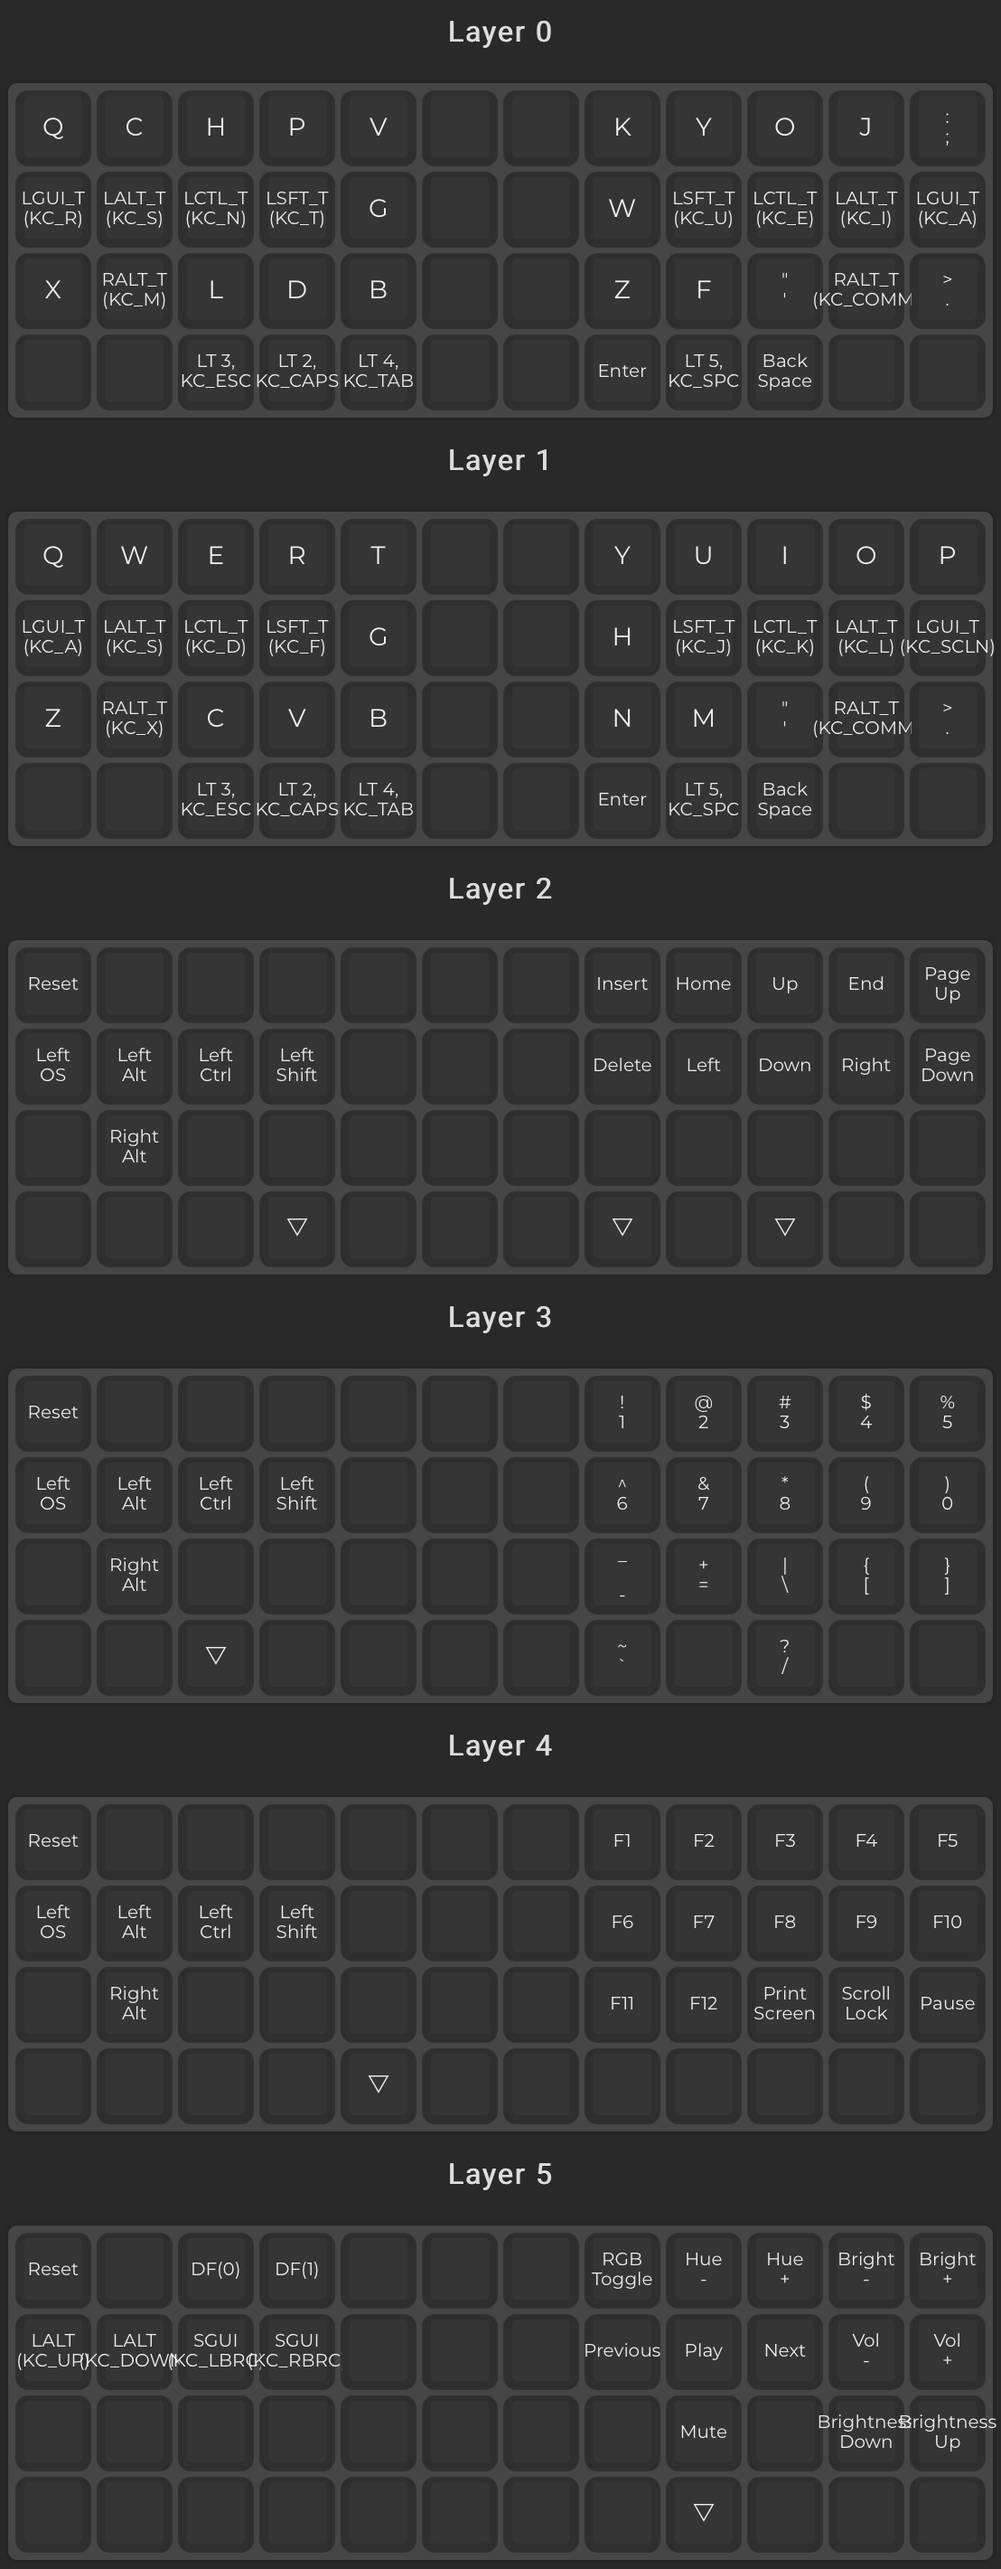
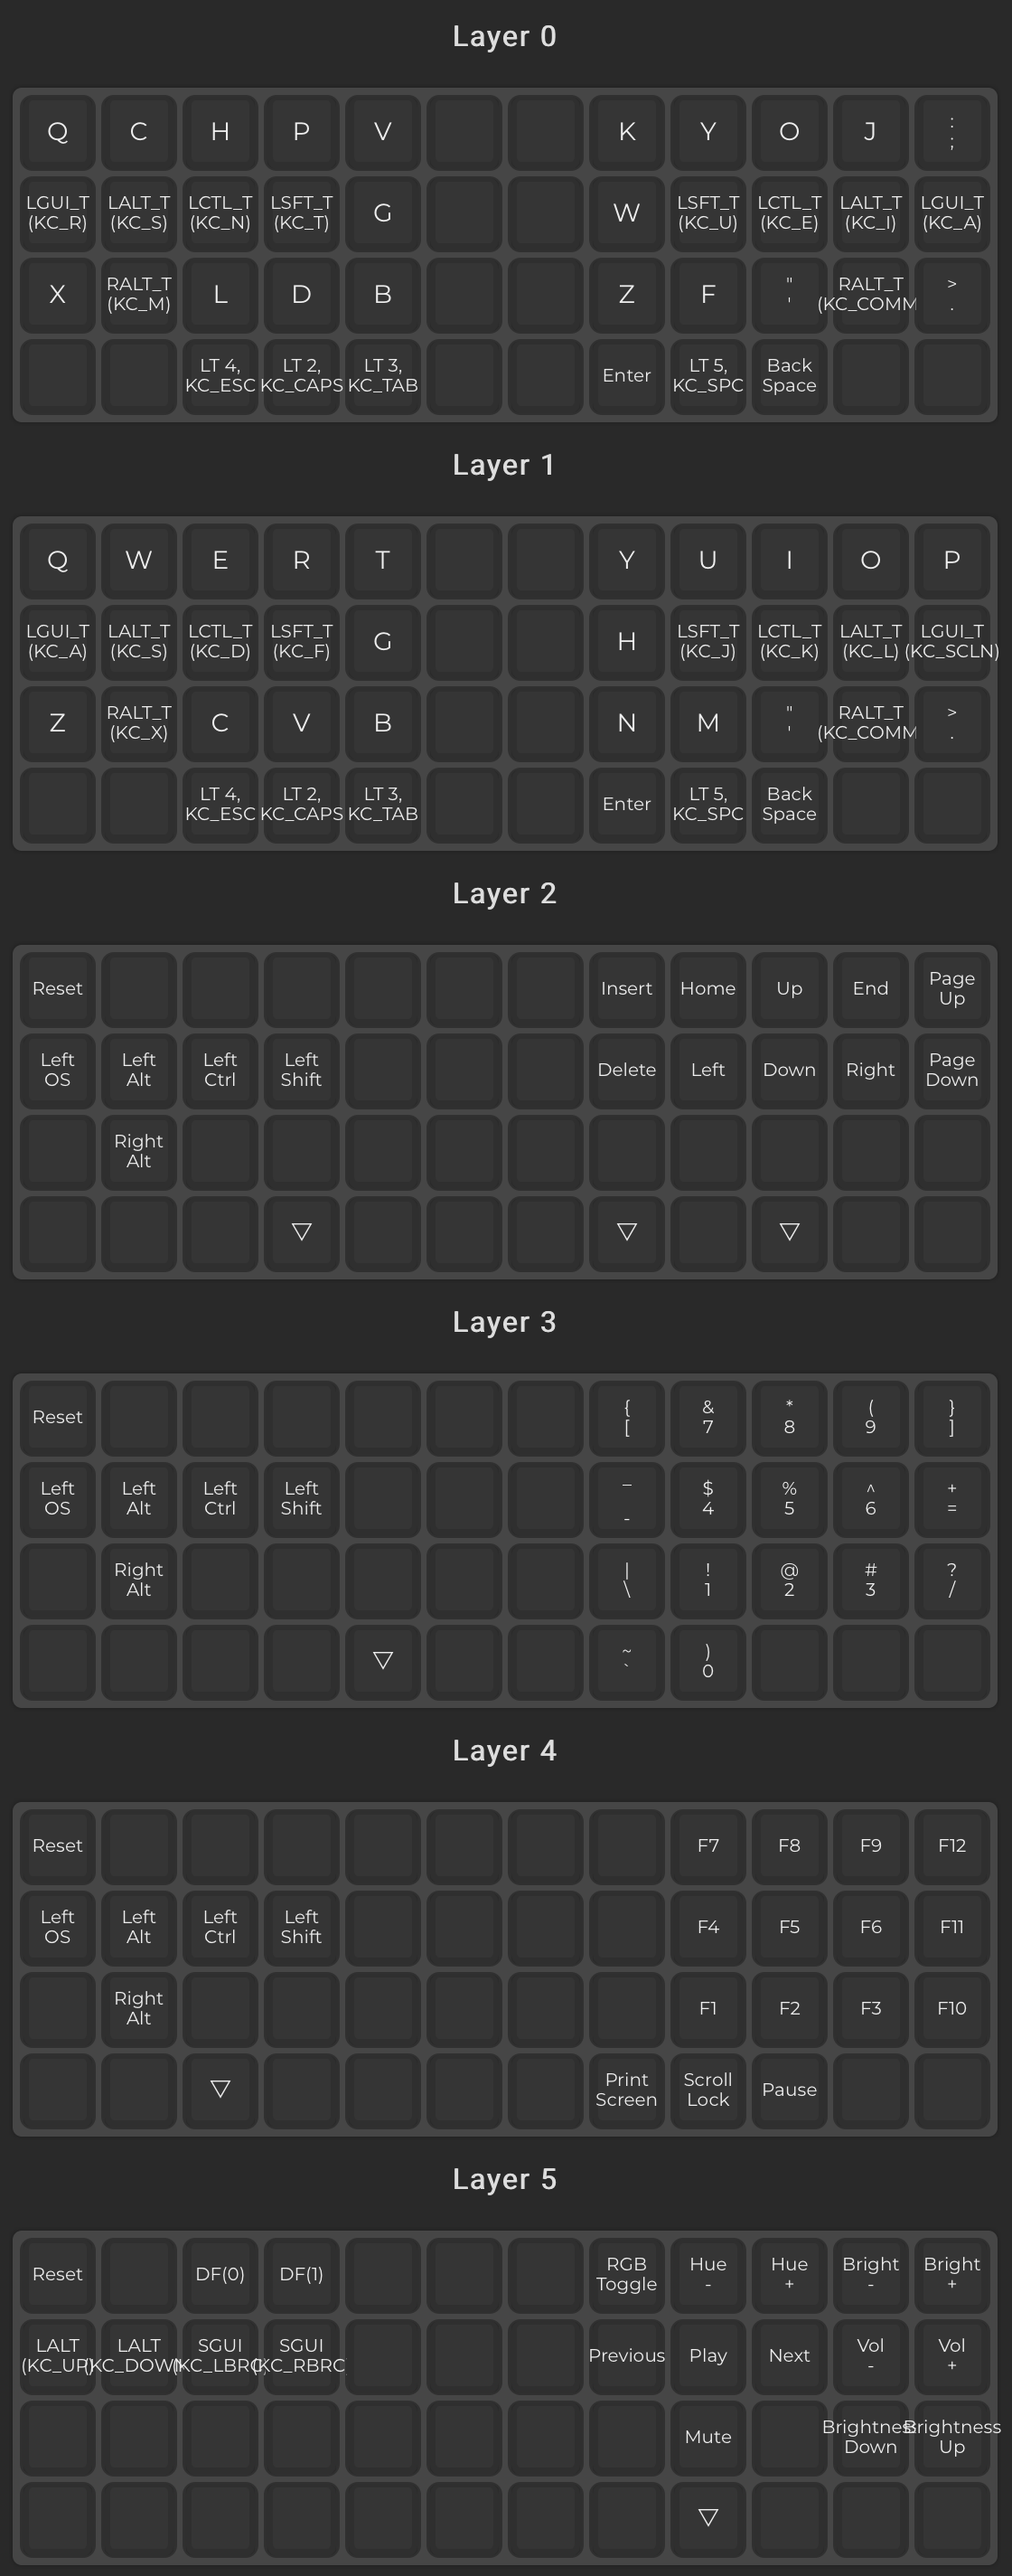
Switch to numpad layout

diff --git a/keymap.c b/keymap.c
@@ -7,10 +7,10 @@
  */
 
 const uint16_t PROGMEM keymaps[][MATRIX_ROWS][MATRIX_COLS] = {
-	[0] = LAYOUT_ortho_4x12(KC_Q, KC_C, KC_H, KC_P, KC_V, KC_NO, KC_NO, KC_K, KC_Y, KC_O, KC_J, KC_SCLN, LGUI_T(KC_R), LALT_T(KC_S), LCTL_T(KC_N), LSFT_T(KC_T), KC_G, KC_NO, KC_NO, KC_W, LSFT_T(KC_U), LCTL_T(KC_E), LALT_T(KC_I), LGUI_T(KC_A), KC_X, RALT_T(KC_M), KC_L, KC_D, KC_B, KC_NO, KC_NO, KC_Z, KC_F, KC_QUOT, RALT_T(KC_COMM), KC_DOT, KC_NO, KC_NO, LT(3,KC_ESC), LT(2,KC_CAPS), LT(4,KC_TAB), KC_NO, KC_NO, KC_ENT, LT(5,KC_SPC), KC_BSPC, KC_NO, KC_NO),
-	[1] = LAYOUT_ortho_4x12(KC_Q, KC_W, KC_E, KC_R, KC_T, KC_NO, KC_NO, KC_Y, KC_U, KC_I, KC_O, KC_P, LGUI_T(KC_A), LALT_T(KC_S), LCTL_T(KC_D), LSFT_T(KC_F), KC_G, KC_NO, KC_NO, KC_H, LSFT_T(KC_J), LCTL_T(KC_K), LALT_T(KC_L), LGUI_T(KC_SCLN), KC_Z, RALT_T(KC_X), KC_C, KC_V, KC_B, KC_NO, KC_NO, KC_N, KC_M, KC_QUOT, RALT_T(KC_COMM), KC_DOT, KC_NO, KC_NO, LT(3,KC_ESC), LT(2,KC_CAPS), LT(4,KC_TAB), KC_NO, KC_NO, KC_ENT, LT(5,KC_SPC), KC_BSPC, KC_NO, KC_NO),
+	[0] = LAYOUT_ortho_4x12(KC_Q, KC_C, KC_H, KC_P, KC_V, KC_NO, KC_NO, KC_K, KC_Y, KC_O, KC_J, KC_SCLN, LGUI_T(KC_R), LALT_T(KC_S), LCTL_T(KC_N), LSFT_T(KC_T), KC_G, KC_NO, KC_NO, KC_W, LSFT_T(KC_U), LCTL_T(KC_E), LALT_T(KC_I), LGUI_T(KC_A), KC_X, RALT_T(KC_M), KC_L, KC_D, KC_B, KC_NO, KC_NO, KC_Z, KC_F, KC_QUOT, RALT_T(KC_COMM), KC_DOT, KC_NO, KC_NO, LT(4,KC_ESC), LT(2,KC_CAPS), LT(3,KC_TAB), KC_NO, KC_NO, KC_ENT, LT(5,KC_SPC), KC_BSPC, KC_NO, KC_NO),
+	[1] = LAYOUT_ortho_4x12(KC_Q, KC_W, KC_E, KC_R, KC_T, KC_NO, KC_NO, KC_Y, KC_U, KC_I, KC_O, KC_P, LGUI_T(KC_A), LALT_T(KC_S), LCTL_T(KC_D), LSFT_T(KC_F), KC_G, KC_NO, KC_NO, KC_H, LSFT_T(KC_J), LCTL_T(KC_K), LALT_T(KC_L), LGUI_T(KC_SCLN), KC_Z, RALT_T(KC_X), KC_C, KC_V, KC_B, KC_NO, KC_NO, KC_N, KC_M, KC_QUOT, RALT_T(KC_COMM), KC_DOT, KC_NO, KC_NO, LT(4,KC_ESC), LT(2,KC_CAPS), LT(3,KC_TAB), KC_NO, KC_NO, KC_ENT, LT(5,KC_SPC), KC_BSPC, KC_NO, KC_NO),
 	[2] = LAYOUT_ortho_4x12(RESET, KC_NO, KC_NO, KC_NO, KC_NO, KC_NO, KC_NO, KC_INS, KC_HOME, KC_UP, KC_END, KC_PGUP, KC_LGUI, KC_LALT, KC_LCTL, KC_LSFT, KC_NO, KC_NO, KC_NO, KC_DEL, KC_LEFT, KC_DOWN, KC_RGHT, KC_PGDN, KC_NO, KC_RALT, KC_NO, KC_NO, KC_NO, KC_NO, KC_NO, KC_NO, KC_NO, KC_NO, KC_NO, KC_NO, KC_NO, KC_NO, KC_NO, KC_TRNS, KC_NO, KC_NO, KC_NO, KC_TRNS, KC_NO, KC_TRNS, KC_NO, KC_NO),
-	[3] = LAYOUT_ortho_4x12(RESET, KC_NO, KC_NO, KC_NO, KC_NO, KC_NO, KC_NO, KC_1, KC_2, KC_3, KC_4, KC_5, KC_LGUI, KC_LALT, KC_LCTL, KC_LSFT, KC_NO, KC_NO, KC_NO, KC_6, KC_7, KC_8, KC_9, KC_0, KC_NO, KC_RALT, KC_NO, KC_NO, KC_NO, KC_NO, KC_NO, KC_MINS, KC_EQL, KC_BSLS, KC_LBRC, KC_RBRC, KC_NO, KC_NO, KC_TRNS, KC_NO, KC_NO, KC_NO, KC_NO, KC_GRV, KC_NO, KC_SLSH, KC_NO, KC_NO),
-	[4] = LAYOUT_ortho_4x12(RESET, KC_NO, KC_NO, KC_NO, KC_NO, KC_NO, KC_NO, KC_F1, KC_F2, KC_F3, KC_F4, KC_F5, KC_LGUI, KC_LALT, KC_LCTL, KC_LSFT, KC_NO, KC_NO, KC_NO, KC_F6, KC_F7, KC_F8, KC_F9, KC_F10, KC_NO, KC_RALT, KC_NO, KC_NO, KC_NO, KC_NO, KC_NO, KC_F11, KC_F12, KC_PSCR, KC_SLCK, KC_PAUS, KC_NO, KC_NO, KC_NO, KC_NO, KC_TRNS, KC_NO, KC_NO, KC_NO, KC_NO, KC_NO, KC_NO, KC_NO),
+	[3] = LAYOUT_ortho_4x12(RESET, KC_NO, KC_NO, KC_NO, KC_NO, KC_NO, KC_NO, KC_LBRC, KC_7, KC_8, KC_9, KC_RBRC, KC_LGUI, KC_LALT, KC_LCTL, KC_LSFT, KC_NO, KC_NO, KC_NO, KC_MINS, KC_4, KC_5, KC_6, KC_EQL, KC_NO, KC_RALT, KC_NO, KC_NO, KC_NO, KC_NO, KC_NO, KC_BSLS, KC_1, KC_2, KC_3, KC_SLSH, KC_NO, KC_NO, KC_NO, KC_NO, KC_TRNS, KC_NO, KC_NO, KC_GRV, KC_0, KC_NO, KC_NO, KC_NO),
+	[4] = LAYOUT_ortho_4x12(RESET, KC_NO, KC_NO, KC_NO, KC_NO, KC_NO, KC_NO, KC_NO, KC_F7, KC_F8, KC_F9, KC_F12, KC_LGUI, KC_LALT, KC_LCTL, KC_LSFT, KC_NO, KC_NO, KC_NO, KC_NO, KC_F4, KC_F5, KC_F6, KC_F11, KC_NO, KC_RALT, KC_NO, KC_NO, KC_NO, KC_NO, KC_NO, KC_NO, KC_F1, KC_F2, KC_F3, KC_F10, KC_NO, KC_NO, KC_TRNS, KC_NO, KC_NO, KC_NO, KC_NO, KC_PSCR, KC_SLCK, KC_PAUS, KC_NO, KC_NO),
 	[5] = LAYOUT_ortho_4x12(RESET, KC_NO, DF(0), DF(1), KC_NO, KC_NO, KC_NO, RGB_TOG, RGB_HUD, RGB_HUI, RGB_VAD, RGB_VAI, LALT(KC_UP), LALT(KC_DOWN), SGUI(KC_LBRC), SGUI(KC_RBRC), KC_NO, KC_NO, KC_NO, KC_MPRV, KC_MPLY, KC_MNXT, KC_VOLD, KC_VOLU, KC_NO, KC_NO, KC_NO, KC_NO, KC_NO, KC_NO, KC_NO, KC_NO, KC_MUTE, KC_NO, KC_BRID, KC_BRIU, KC_NO, KC_NO, KC_NO, KC_NO, KC_NO, KC_NO, KC_NO, KC_NO, KC_TRNS, KC_NO, KC_NO, KC_NO)
 };
